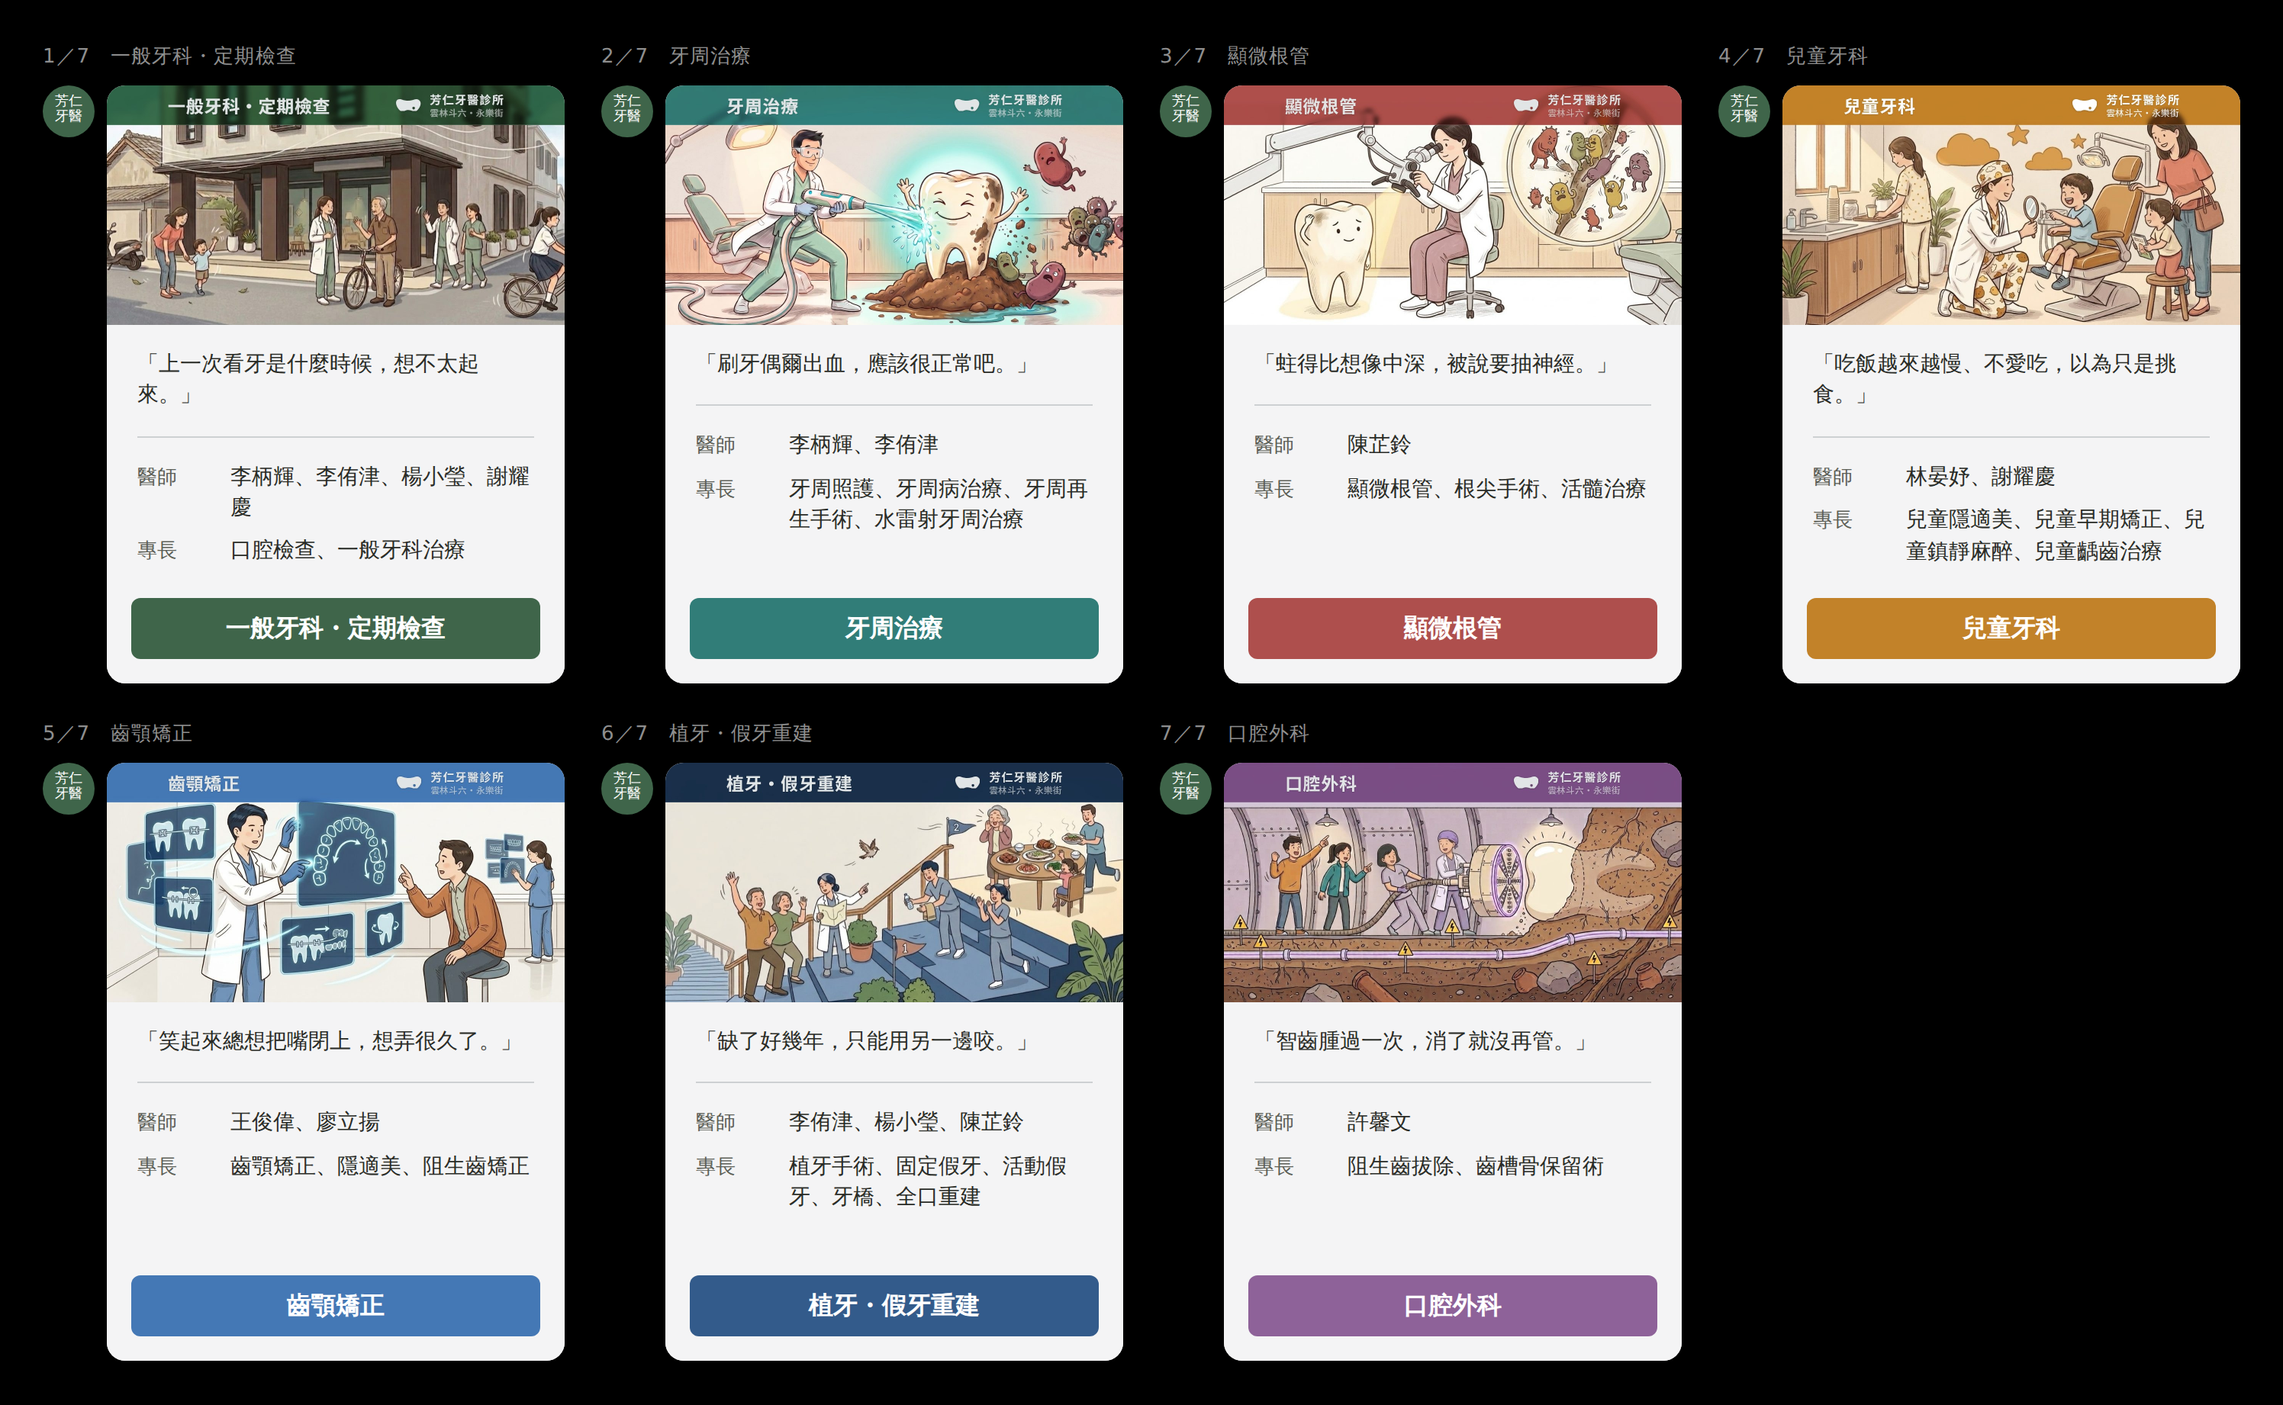
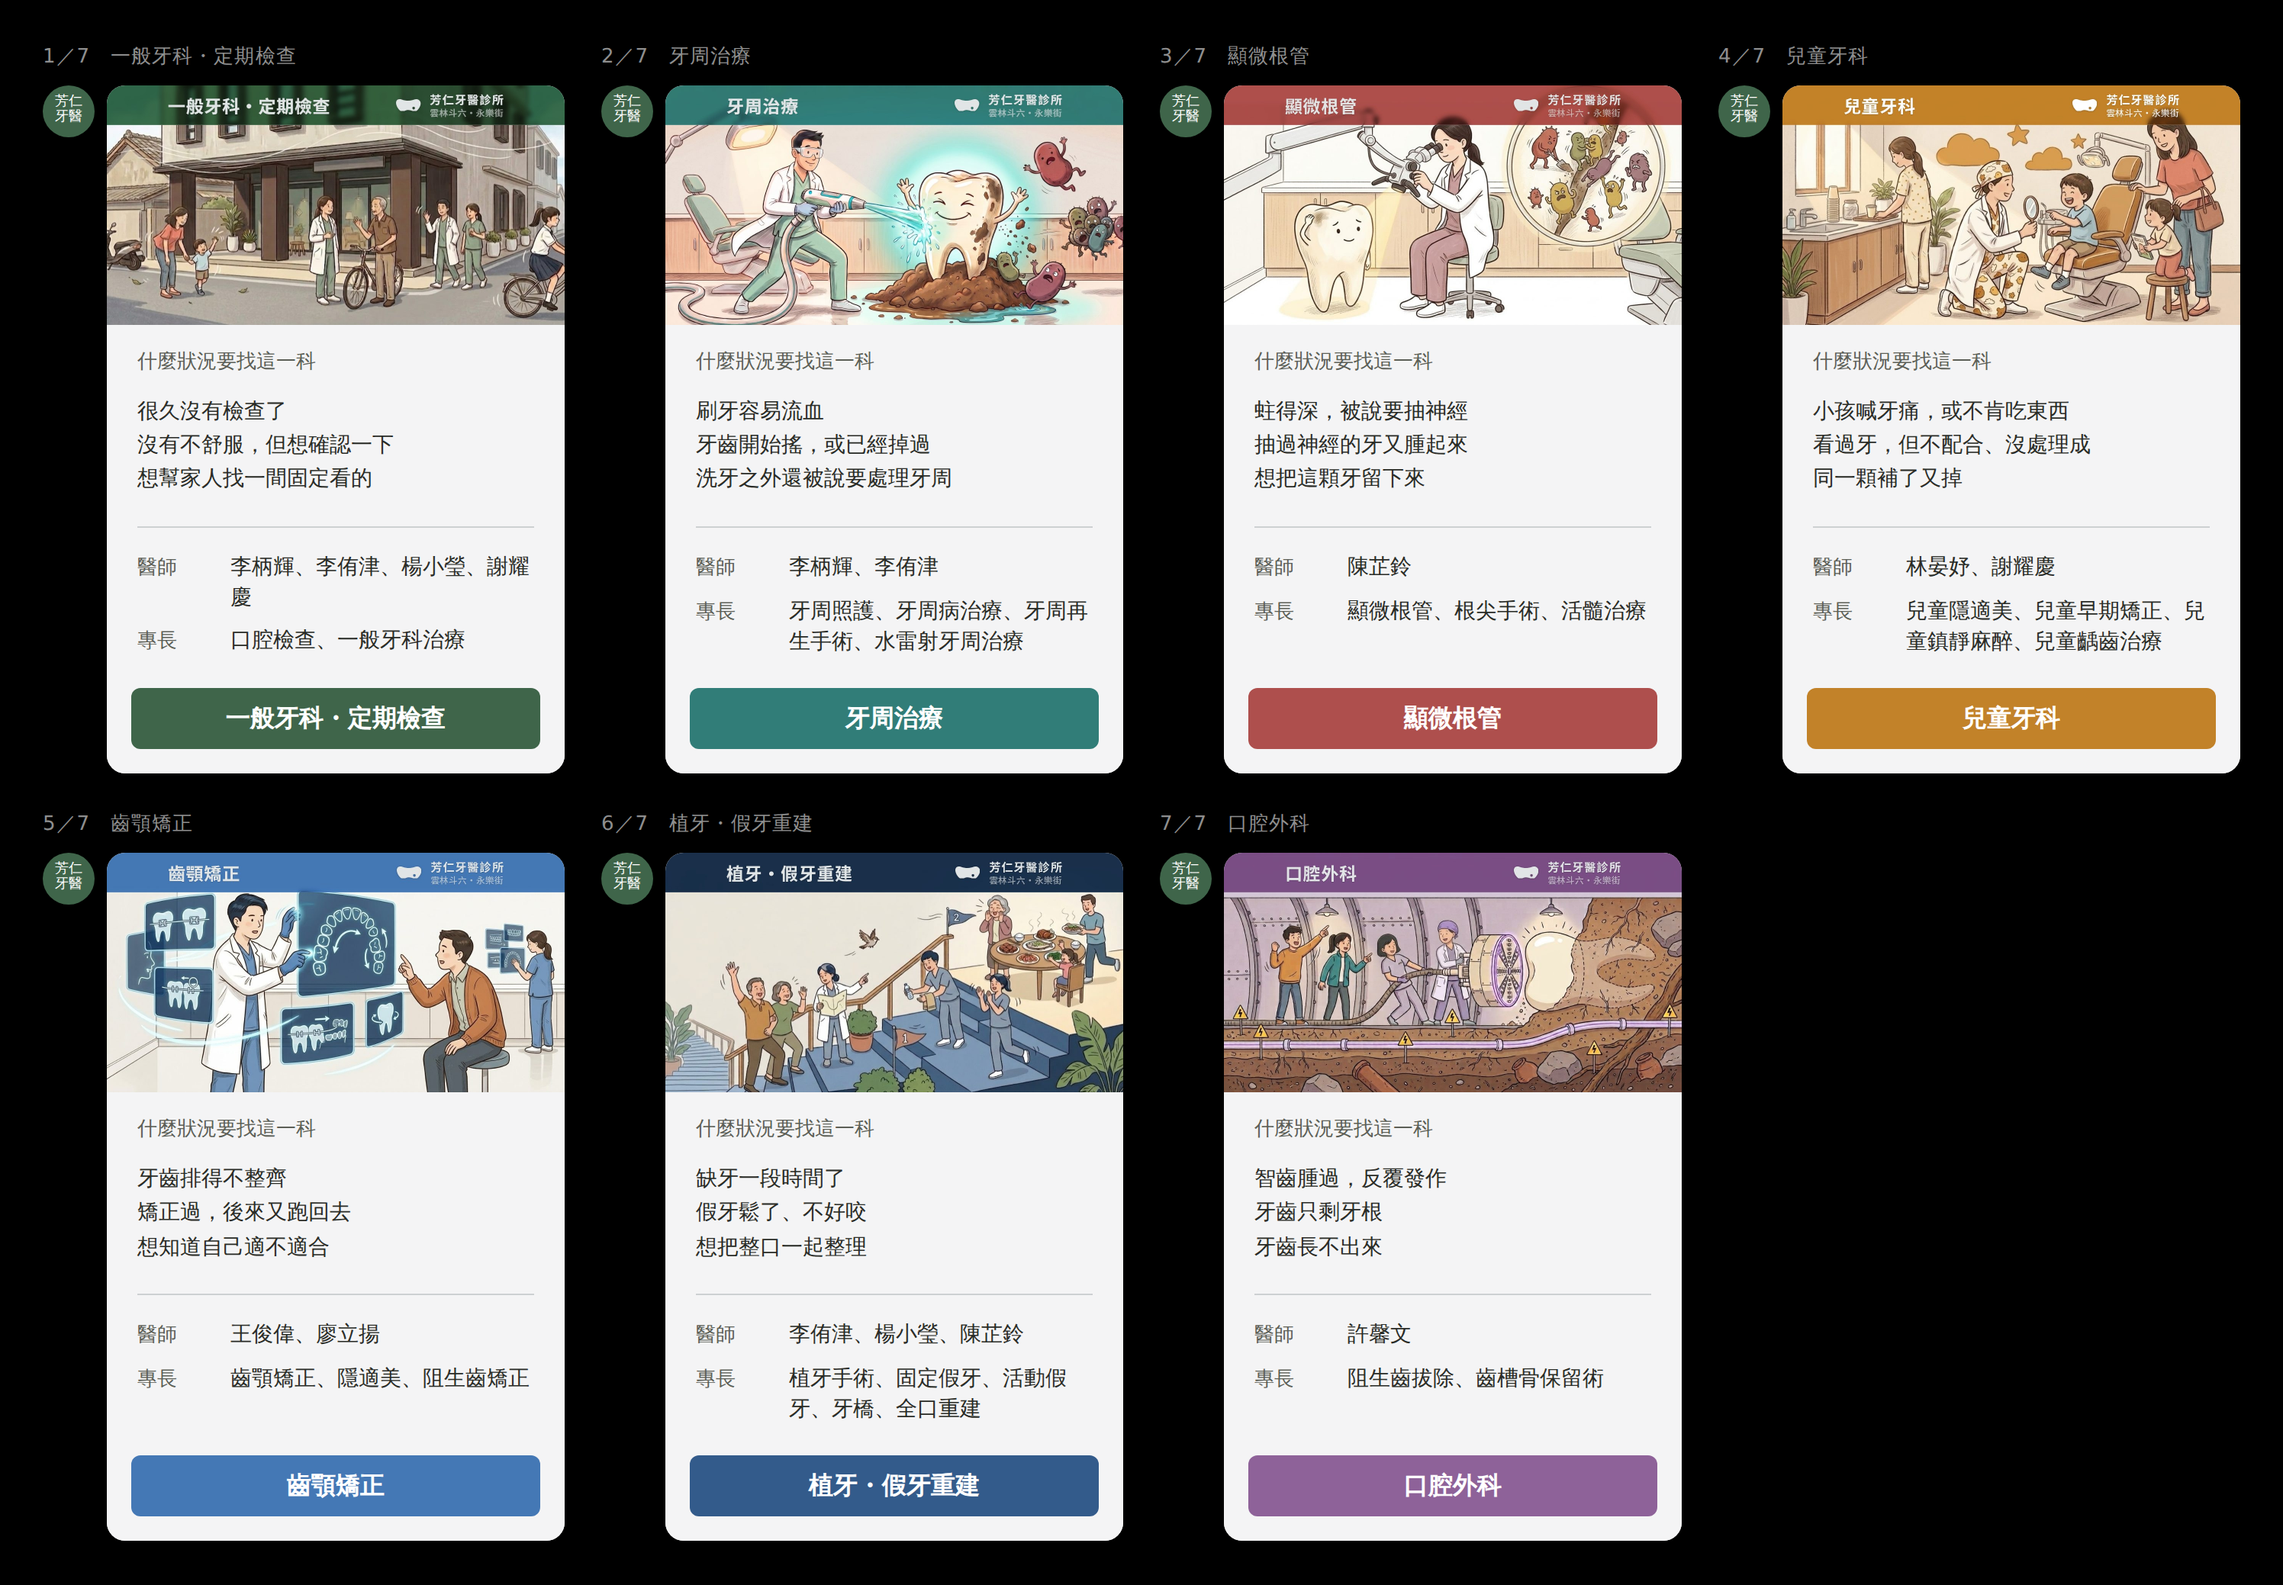
診療項目卡：那幾句換成 LINE 自己的一套（使用者退回著陸頁的文案）
使用者：「網站是給還沒有病識感、或替家人找資源的人瀏覽用的，所以寫的時候是
一個比較模糊的印象；但會加 LINE 的病人都已經是到診所才加的，對疾病已經有基本
的認識。所以不要用那麼模糊的話，直接寫這個科別在做什麼、什麼樣的問題要找
這個科別。」

→ 讀者不同，語域就不同。著陸頁＝陪伴（讓他覺得被看見），LINE＝指路
（讓他知道該點哪一格）。卡片上那一句病人的自言自語換成「什麼狀況要找這一科」
的三行，「這一科在做什麼」交給醫師卡上的專長標記（從 index.html 讀）。

新增 drafts/line-oa/topic-copy-line.mjs：七科各三句，每一科都註明是從著陸頁
哪幾句轉寫的，新的醫療主張一句都沒加。四個刻意沒寫的也記在裡面：牙周不寫
「牙齦腫」、矯正寫「適不適合」不寫「來不來得及」、植牙不寫費用、口外不寫
「不會痛」。

⚠ 這不是放棄 COPY.md 第三節的品牌語氣 —— 不推銷、不誇大、不承諾療效、
不替病人做決定，那幾條一條都沒鬆，換掉的只有「模糊」這一項。

Claude-Session: https://claude.ai/code/session_01QMa36HgXCp2rYEV7ykbWqK

Changed region(s): [[0.0, 0.0309, 0.9947, 0.9902], [0.5284, 0.8355, 0.5595, 0.8664], [0.5284, 0.3404, 0.5595, 0.3713]]

diff --git a/drafts/line-oa/README.md b/drafts/line-oa/README.md
@@ -141,12 +141,35 @@ node drafts/line-oa/flex-preview.mjs topics-carousel.json     # → preview-topi
 文案一改、醫師一換、顏色一調，重跑就跟上。產生器有五道守門（chips 不是 7 科、
 醫師不是 9 位、取不到那一句、配不到醫師或專長、圖不存在）任何一項不成立就 throw。
 
-### 那一句為什麼取 `cases[0]`，不取 lead／stance／close
+### ⚠⚠ 那幾句是 LINE 自己的一套，**不是**著陸頁的文案（2026-08-27 使用者定的）
 
-⚠⚠ **`stance` 是「回應上面那三句處境」的，單獨抽出來會失去對象** ——
-牙周的「這三種我們都常遇到」抽到卡片上，沒有人知道是哪三種。
-`cases[0]` 自給自足，而且正是 COPY.md 第九之一節說的那件事：
-會來這一頁的人**不是想認識科別，是帶著一個具體的擔心來的**。
+第一版用的是著陸頁的 `cases[0]`（病人的自言自語），**被退回了**。使用者的理由：
+
+> 「網站是給還沒有病識感、或替家人找資源的人瀏覽用的，所以寫的時候是一個比較
+> 模糊的印象；但**會加 LINE 的病人都已經是到診所才加的**，對疾病已經有基本的
+> 認識。所以不要用那麼模糊的話，直接寫這個科別在做什麼、什麼樣的問題要找這個科別。」
+
+**讀者不同，語域就不同**，這是這一輪最要記住的一條：
+
+| | 著陸頁（站上） | LINE（這一份） |
+| --- | --- | --- |
+| 讀者 | 還沒有病識感、或替家人找資源 | **已經到過診所**，知道自己的問題 |
+| 這一頁的工作 | 讓他覺得被看見 | 讓他知道**該點哪一格** |
+| 語域 | 陪伴、模糊、病人的自言自語 | 指路、具體、第三人稱的狀況 |
+
+⚠ **這不是放棄 COPY.md 第三節的品牌語氣** —— 不推銷、不誇大、不承諾療效、
+不替病人做決定、不貶低同業，那幾條一條都沒鬆。換掉的只有「模糊」這一項。
+
+⚠⚠ **每一句都要指得回站上已經有的東西**（全隊紅線第 11 條）。
+`topic-copy-line.mjs` 裡每一科都註明那三句是從著陸頁哪幾句轉寫過來的，
+**新的醫療主張一句都沒有加**。三個刻意沒寫的：
+・牙周沒有寫「牙齦腫」（站上沒有那三個字，不要自己補症狀）
+・矯正寫「適不適合」不寫「來不來得及」（年齡判準還沒問到診所）
+・植牙沒有寫費用（自費結構還沒問到診所）
+・口外沒有寫「不會痛」「不必硬來」（COPY.md 第九之十八節：否定句會把畫面塞進他腦子裡）
+
+「這一科在做什麼」那一格用的是**醫師卡上的專長標記**（從 `index.html` 讀的），
+不自己寫一句 —— 比較硬，也不會長出第二份真相。
 
 ### 已知取捨
 
